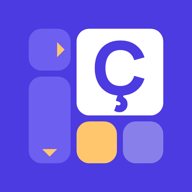
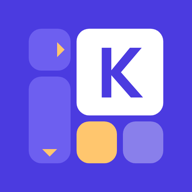
Uygulamanın adı Kanca - Word Game oldu
Sayfa başlığı, açılış ekranı, üst menü, ana ekran adı ve manifest yeni
ada geçti; logodaki harf Ç yerine K. Kayıtlı ilerleme aynı kalır.

Changed region(s): [[0.4688, 0.1875, 0.75, 0.5938]]

diff --git a/index.html b/index.html
@@ -6,13 +6,13 @@
 <meta name="theme-color" content="#4b3be0">
 <meta name="apple-mobile-web-app-capable" content="yes">
 <meta name="mobile-web-app-capable" content="yes">
-<meta name="apple-mobile-web-app-title" content="Çengel">
+<meta name="apple-mobile-web-app-title" content="Kanca">
 <meta name="apple-mobile-web-app-status-bar-style" content="default">
 <link rel="apple-touch-icon" href="icons/apple-touch-icon.png">
 <link rel="icon" type="image/png" sizes="32x32" href="icons/favicon-32.png">
 <link rel="manifest" href="manifest.webmanifest">
 <style>body{margin:0;font-size:14px}</style>
-<title>Çengel İngilizce</title>
+<title>Kanca - Word Game</title>
 <link rel="preconnect" href="https://fonts.googleapis.com">
 <link rel="preconnect" href="https://fonts.gstatic.com" crossorigin>
 <link rel="stylesheet" href="https://fonts.googleapis.com/css2?family=Manrope:wght@500;600;700;800&family=Barlow+Condensed:wght@600;700&display=swap">
@@ -400,6 +400,7 @@ button, .cell { touch-action: manipulation; }
 @keyframes spPop { to { opacity: 1; transform: none; } }
 @keyframes spGood { to { background: #ddf5e6; color: #1d7a47; } }
 .splash h1 { font-size: clamp(40px, 12vw, 56px); font-weight: 800; letter-spacing: -.03em; line-height: 1; }
+.splash .sp-tag { font-size: 13px; font-weight: 800; letter-spacing: .18em; text-transform: uppercase; opacity: .7; margin-bottom: -12px; }
 .splash p { margin: 0; font-weight: 700; font-size: 17px; opacity: .85; }
 .splash .lv { display: flex; gap: 8px; }
 .splash .lv b { padding: 6px 12px; border-radius: 999px; background: rgba(255, 255, 255, .14); font-size: 13px; font-weight: 800; letter-spacing: .04em; }
@@ -415,10 +416,11 @@ button, .cell { touch-action: manipulation; }
 <body>
 
 
-<div class="splash" id="splash" lang="tr" role="button" aria-label="Uygulamaya geç">
+<div class="splash" id="splash" lang="tr" role="button" aria-label="Kanca uygulamasına geç">
   <div class="inner">
     <div class="sp-grid" id="spGrid" aria-hidden="true"></div>
-    <h1>Çengel</h1>
+    <div class="sp-tag">Word Game</div>
+    <h1>Kanca</h1>
     <p>Türkçe ipucu, İngilizce cevap</p>
     <div class="lv"><b>A1</b><b>A2</b><b>B1</b><b>B2</b></div>
   </div>
@@ -427,7 +429,7 @@ button, .cell { touch-action: manipulation; }
 
 <div class="app" lang="tr">
   <header class="topbar">
-    <div class="brand"><div class="logo">Ç</div><div><b>Çengel</b><small>Türkçe → İngilizce</small></div></div>
+    <div class="brand"><div class="logo">K</div><div><b>Kanca</b><small>Word Game · Türkçe → İngilizce</small></div></div>
     <nav class="tabs" id="tabs">
       <button data-go="home">Ana sayfa</button>
       <button data-go="play">Bulmaca</button>

diff --git a/src/app.html b/src/app.html
@@ -1,4 +1,4 @@
-<title>Çengel İngilizce</title>
+<title>Kanca - Word Game</title>
 <link rel="preconnect" href="https://fonts.googleapis.com">
 <link rel="preconnect" href="https://fonts.gstatic.com" crossorigin>
 <link rel="stylesheet" href="https://fonts.googleapis.com/css2?family=Manrope:wght@500;600;700;800&family=Barlow+Condensed:wght@600;700&display=swap">
@@ -386,6 +386,7 @@ button, .cell { touch-action: manipulation; }
 @keyframes spPop { to { opacity: 1; transform: none; } }
 @keyframes spGood { to { background: #ddf5e6; color: #1d7a47; } }
 .splash h1 { font-size: clamp(40px, 12vw, 56px); font-weight: 800; letter-spacing: -.03em; line-height: 1; }
+.splash .sp-tag { font-size: 13px; font-weight: 800; letter-spacing: .18em; text-transform: uppercase; opacity: .7; margin-bottom: -12px; }
 .splash p { margin: 0; font-weight: 700; font-size: 17px; opacity: .85; }
 .splash .lv { display: flex; gap: 8px; }
 .splash .lv b { padding: 6px 12px; border-radius: 999px; background: rgba(255, 255, 255, .14); font-size: 13px; font-weight: 800; letter-spacing: .04em; }
@@ -398,10 +399,11 @@ button, .cell { touch-action: manipulation; }
 }
 </style>
 
-<div class="splash" id="splash" lang="tr" role="button" aria-label="Uygulamaya geç">
+<div class="splash" id="splash" lang="tr" role="button" aria-label="Kanca uygulamasına geç">
   <div class="inner">
     <div class="sp-grid" id="spGrid" aria-hidden="true"></div>
-    <h1>Çengel</h1>
+    <div class="sp-tag">Word Game</div>
+    <h1>Kanca</h1>
     <p>Türkçe ipucu, İngilizce cevap</p>
     <div class="lv"><b>A1</b><b>A2</b><b>B1</b><b>B2</b></div>
   </div>
@@ -410,7 +412,7 @@ button, .cell { touch-action: manipulation; }
 
 <div class="app" lang="tr">
   <header class="topbar">
-    <div class="brand"><div class="logo">Ç</div><div><b>Çengel</b><small>Türkçe → İngilizce</small></div></div>
+    <div class="brand"><div class="logo">K</div><div><b>Kanca</b><small>Word Game · Türkçe → İngilizce</small></div></div>
     <nav class="tabs" id="tabs">
       <button data-go="home">Ana sayfa</button>
       <button data-go="play">Bulmaca</button>

diff --git a/icons/logo-source.html b/icons/logo-source.html
@@ -7,11 +7,11 @@ html,body{margin:0;width:512px;height:512px;overflow:hidden;background:#4b3be0}
 .cell{position:absolute;border-radius:34px}
 .clue{left:76px;top:76px;width:112px;height:112px;background:#6d5ff0}
 .clue::after{content:"";position:absolute;right:16px;top:50%;transform:translateY(-50%);border:20px solid transparent;border-left-color:#ffc66e;border-right-width:0}
-.big{left:204px;top:76px;width:232px;height:232px;background:#ffffff;display:grid;place-items:center;font:800 196px/1 Manrope,system-ui,sans-serif;color:#4b3be0;padding-bottom:30px;box-sizing:border-box}
+.big{left:204px;top:76px;width:232px;height:232px;background:#ffffff;display:grid;place-items:center;font:800 184px/1 Manrope,system-ui,sans-serif;color:#4b3be0;padding-bottom:4px;box-sizing:border-box}
 .d1{left:76px;top:204px;width:112px;height:232px;background:#6d5ff0}
 .d1::after{content:"";position:absolute;bottom:18px;left:50%;transform:translateX(-50%);border:20px solid transparent;border-top-color:#ffc66e;border-bottom-width:0}
 .s1{left:204px;top:324px;width:108px;height:112px;background:#ffc66e}
 .s2{left:328px;top:324px;width:108px;height:112px;background:#ffffff;opacity:.35}
 </style></head><body><div class="c">
-<div class="cell clue"></div><div class="cell d1"></div><div class="cell big">Ç</div><div class="cell s1"></div><div class="cell s2"></div>
+<div class="cell clue"></div><div class="cell d1"></div><div class="cell big">K</div><div class="cell s1"></div><div class="cell s2"></div>
 </div></body></html>

diff --git a/tools/build.py b/tools/build.py
@@ -11,7 +11,7 @@ for k, ps in d['levels'].items():
             allw += ws
         assert len(set(allw)) == 24, (k, p)
 body = open('src/app.html', encoding='utf-8').read().replace('/*DATA*/{}', json.dumps(d, ensure_ascii=False, separators=(',', ':')))
-head = '<!doctype html>\n<html lang="tr">\n<head>\n<meta charset="utf-8">\n<meta name="viewport" content="width=device-width, initial-scale=1, viewport-fit=cover">\n<meta name="theme-color" content="#4b3be0">\n<meta name="apple-mobile-web-app-capable" content="yes">\n<meta name="mobile-web-app-capable" content="yes">\n<meta name="apple-mobile-web-app-title" content="Çengel">\n<meta name="apple-mobile-web-app-status-bar-style" content="default">\n<link rel="apple-touch-icon" href="icons/apple-touch-icon.png">\n<link rel="icon" type="image/png" sizes="32x32" href="icons/favicon-32.png">\n<link rel="manifest" href="manifest.webmanifest">\n<style>body{margin:0;font-size:14px}</style>\n'
+head = '<!doctype html>\n<html lang="tr">\n<head>\n<meta charset="utf-8">\n<meta name="viewport" content="width=device-width, initial-scale=1, viewport-fit=cover">\n<meta name="theme-color" content="#4b3be0">\n<meta name="apple-mobile-web-app-capable" content="yes">\n<meta name="mobile-web-app-capable" content="yes">\n<meta name="apple-mobile-web-app-title" content="Kanca">\n<meta name="apple-mobile-web-app-status-bar-style" content="default">\n<link rel="apple-touch-icon" href="icons/apple-touch-icon.png">\n<link rel="icon" type="image/png" sizes="32x32" href="icons/favicon-32.png">\n<link rel="manifest" href="manifest.webmanifest">\n<style>body{margin:0;font-size:14px}</style>\n'
 title_end = body.index('</style>') + len('</style>')
 html = head + body[:title_end] + '\n</head>\n<body>\n' + body[title_end:] + '\n</body>\n</html>\n'
 open('index.html', 'w', encoding='utf-8').write(html)

diff --git a/README.md b/README.md
@@ -1,4 +1,4 @@
-# Çengel İngilizce
+# Kanca - Word Game
 
 Türkçe ipuçlarının İngilizce karşılıklarını ok yönünde yazdığın çengel bulmaca. Tek dosya, kurulum gerektirmez: `index.html`'i tarayıcıda aç.
 
